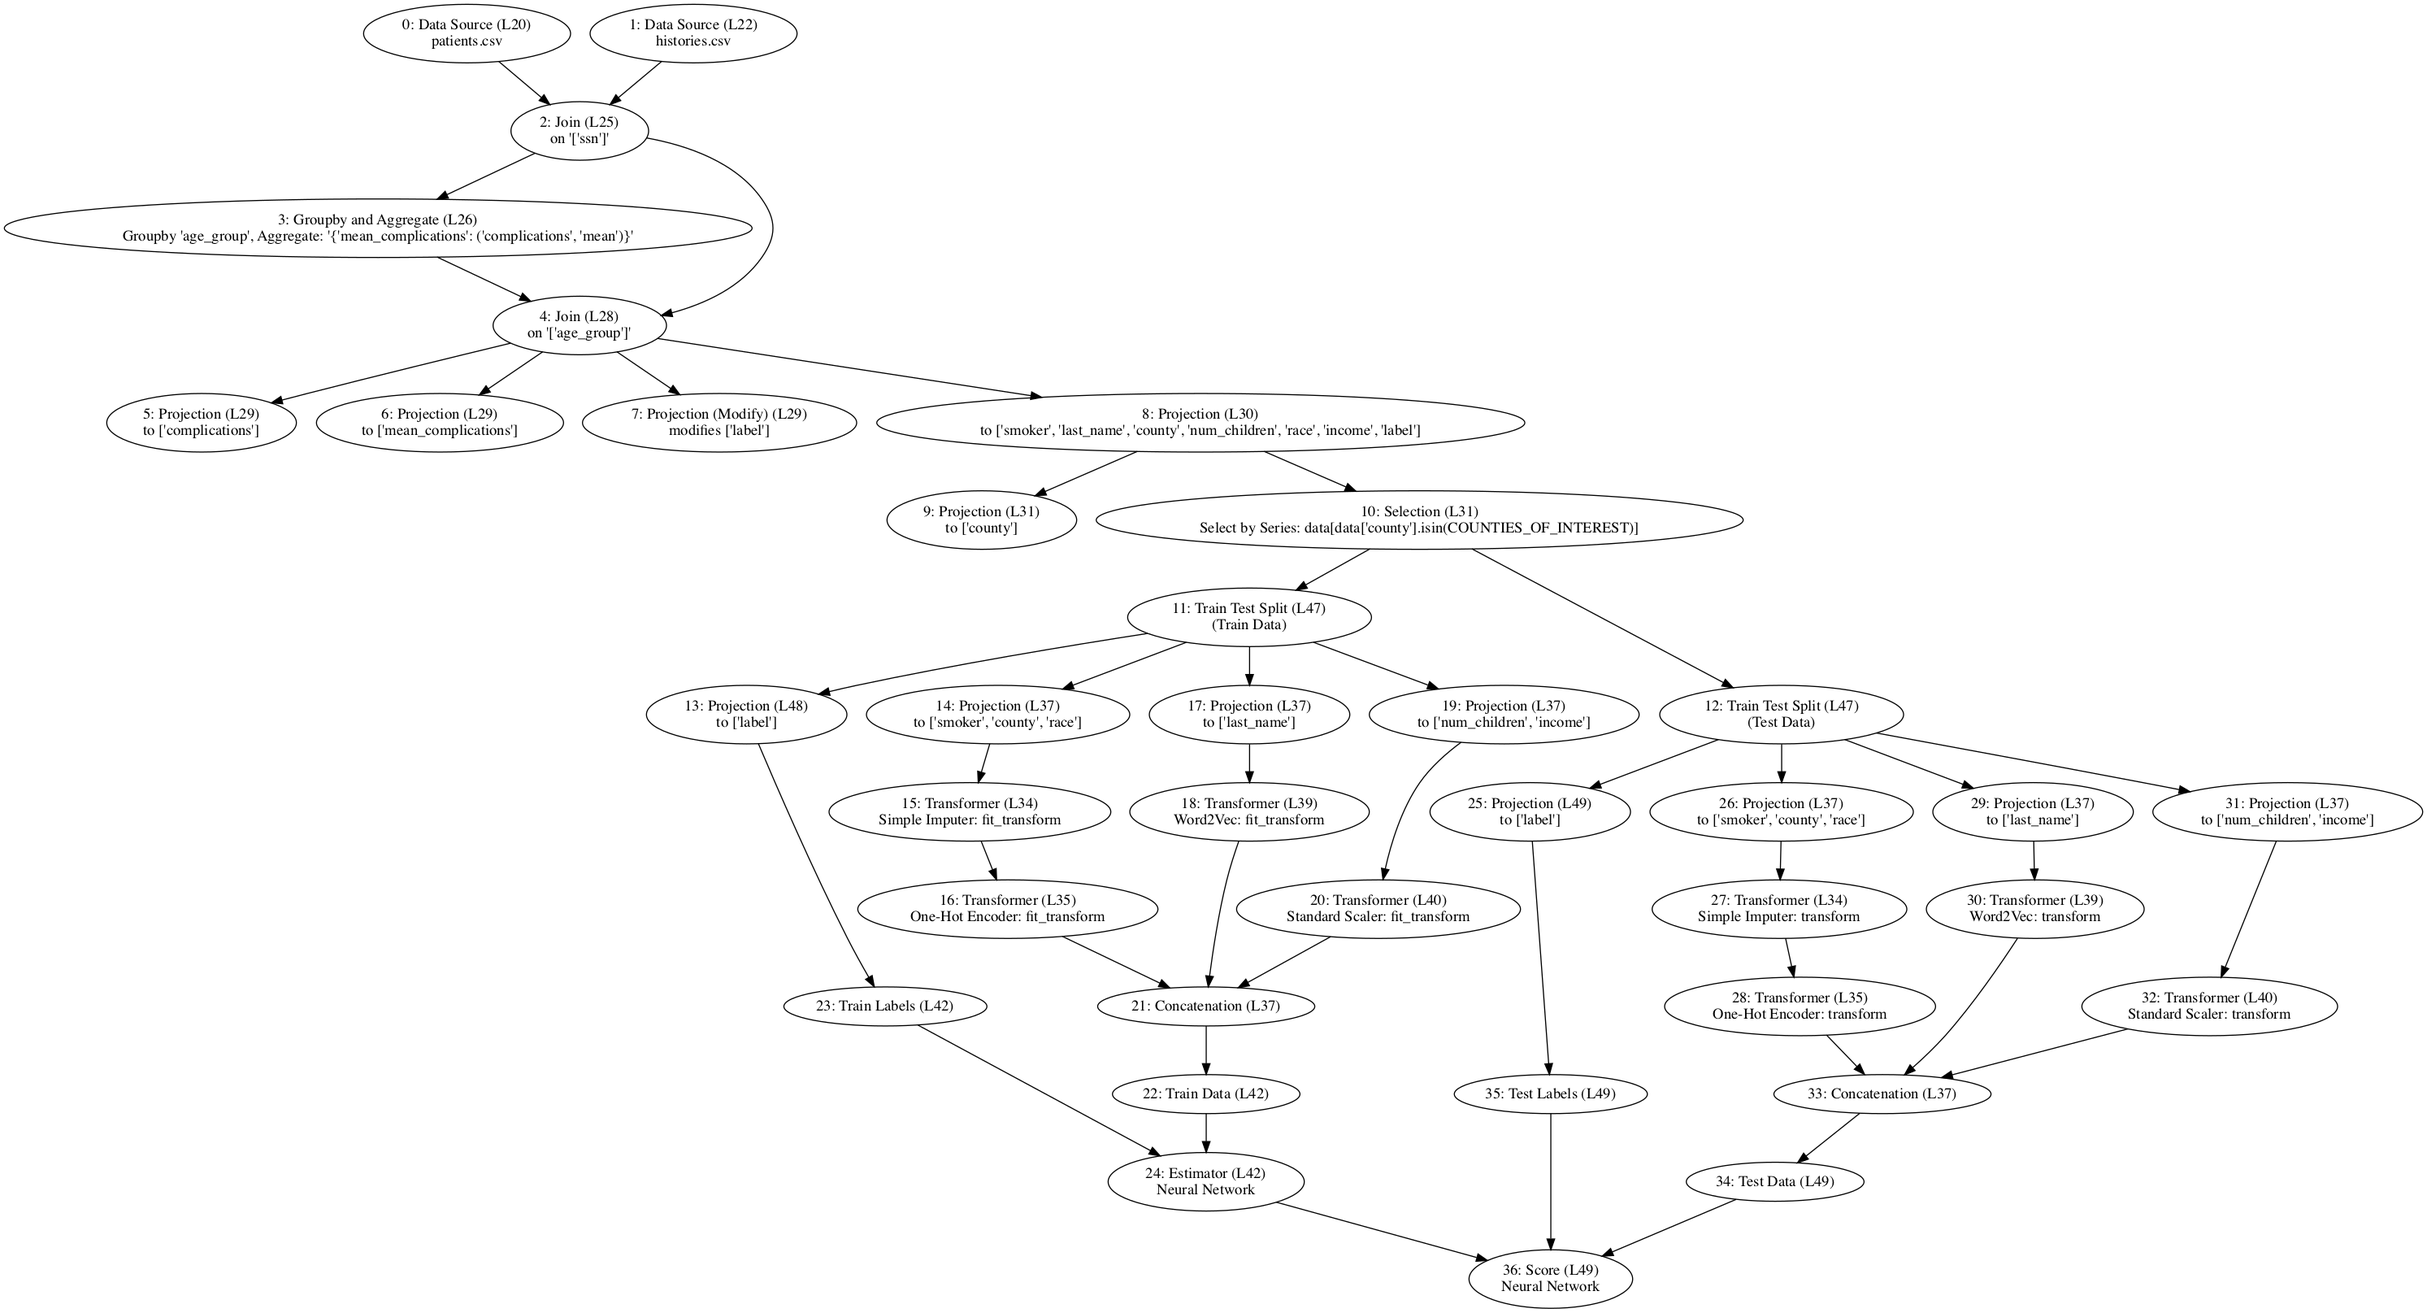
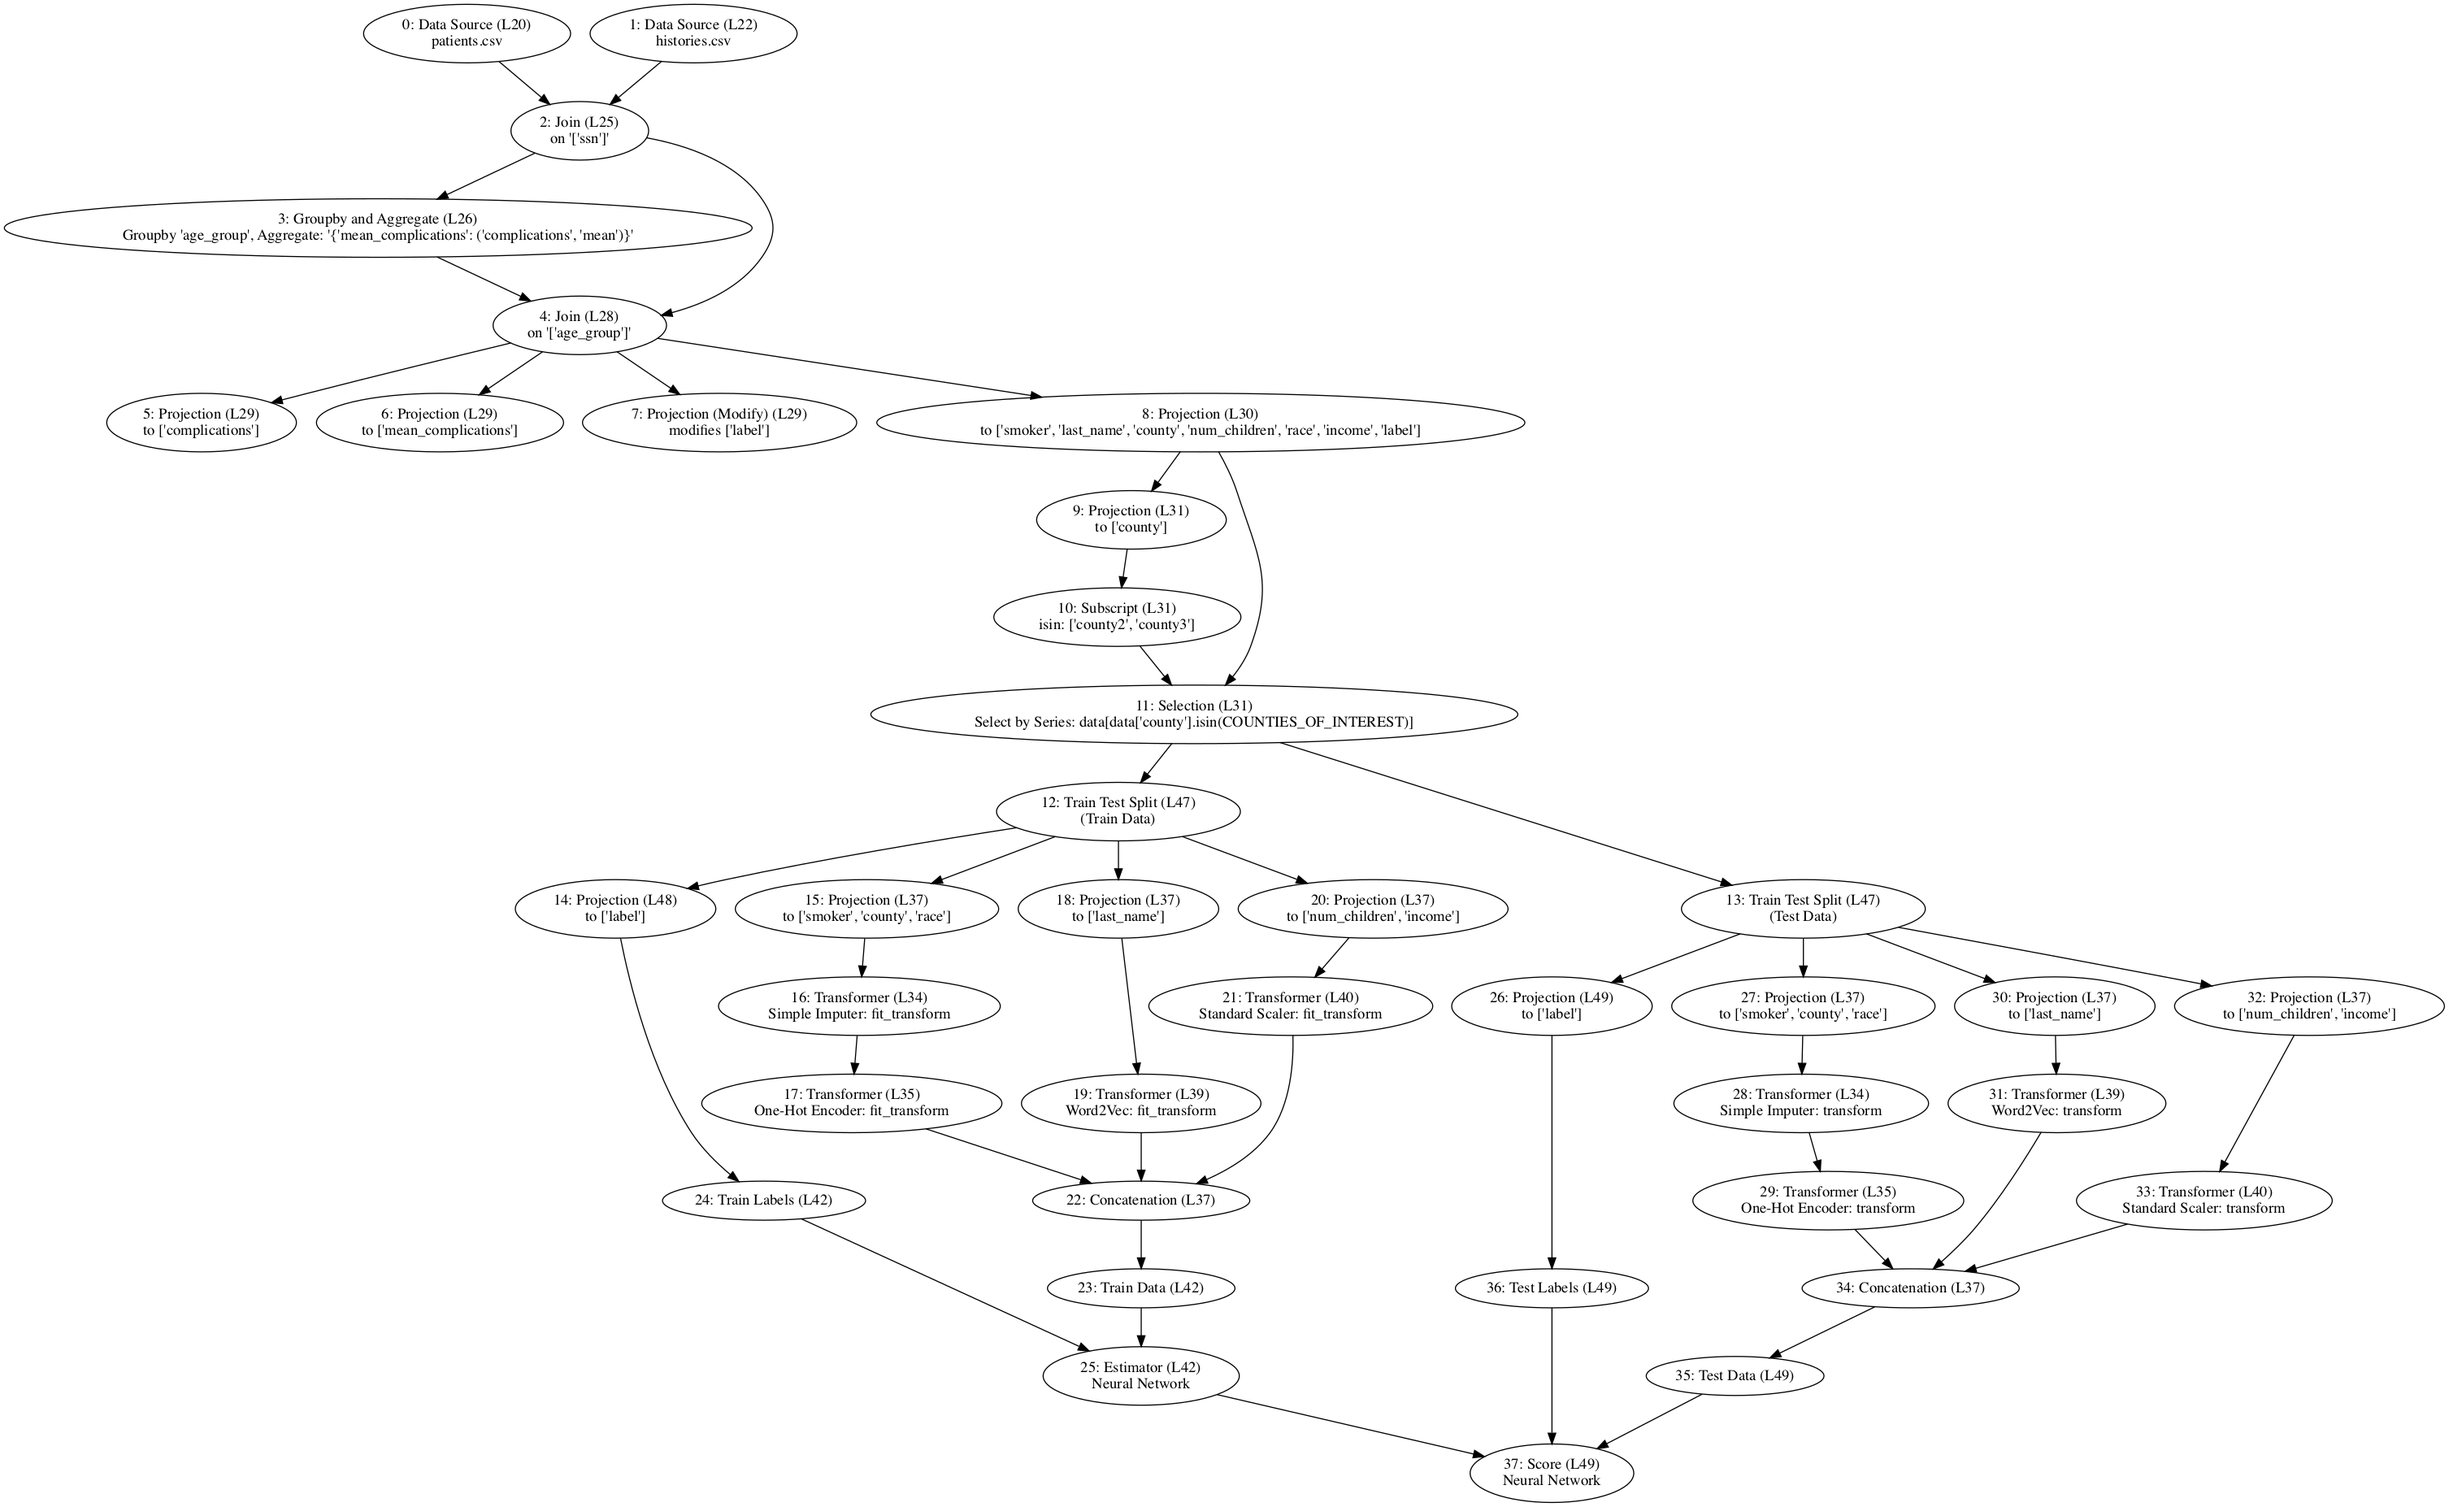
Included first subscript in DAG

diff --git a/mlwhatif/monkeypatching/_patch_pandas.py b/mlwhatif/monkeypatching/_patch_pandas.py
@@ -117,6 +117,7 @@ class DataFramePatching:
             function_info = FunctionInfo('pandas.core.frame', '__getitem__')
             input_info = get_input_info(self, caller_filename, lineno, function_info, optional_code_reference,
                                         optional_source_code)
+            dag_parents = [input_info.dag_node]
             if isinstance(args[0], str):  # Projection to Series
                 columns = [args[0]]
                 operator_context = OperatorContext(OperatorType.PROJECTION, function_info)
@@ -136,6 +137,9 @@ class DataFramePatching:
             elif isinstance(args[0], pandas.Series):  # Selection
                 operator_context = OperatorContext(OperatorType.SELECTION, function_info)
                 columns = list(self.columns)  # pylint: disable=no-member
+                selection_series_input_info = get_input_info(args[0], caller_filename, lineno, function_info,
+                                                             optional_code_reference, optional_source_code)
+                dag_parents.append(selection_series_input_info.dag_node)
                 if optional_source_code:
                     description = "Select by Series: {}".format(optional_source_code)
                 else:
@@ -149,7 +153,7 @@ class DataFramePatching:
                 raise NotImplementedError()
             result = original(input_info.annotated_dfobject.result_data, *args, **kwargs)
             function_call_result = FunctionCallResult(result)
-            add_dag_node(dag_node, [input_info.dag_node], function_call_result)
+            add_dag_node(dag_node, dag_parents, function_call_result)
             new_result = function_call_result.function_result
 
             return new_result
@@ -435,3 +439,33 @@ class SeriesPatching:
             add_dag_node(dag_node, [], function_call_result)
 
         execute_patched_func(original, execute_inspections, self, *args, **kwargs)
+
+    @gorilla.name('isin')
+    @gorilla.settings(allow_hit=True)
+    def patched_isin(self, *args, **kwargs):
+        """ Patch for ('pandas.core.series', 'isin') """
+        original = gorilla.get_original_attribute(pandas.Series, 'isin')
+
+        def execute_inspections(op_id, caller_filename, lineno, optional_code_reference, optional_source_code):
+            """ Execute inspections, add DAG node """
+            function_info = FunctionInfo('pandas.core.series', 'isin')
+            input_info = get_input_info(self, caller_filename, lineno, function_info, optional_code_reference,
+                                        optional_source_code)
+            operator_context = OperatorContext(OperatorType.SUBSCRIPT, function_info)
+            description = "isin: {}".format(args[0])
+            columns = [self.name]
+            dag_node = DagNode(op_id,
+                               BasicCodeLocation(caller_filename, lineno),
+                               operator_context,
+                               DagNodeDetails(description, columns),
+                               get_optional_code_info_or_none(optional_code_reference, optional_source_code))
+
+            result = original(input_info.annotated_dfobject.result_data, *args, **kwargs)
+            function_call_result = FunctionCallResult(result)
+            add_dag_node(dag_node, [input_info.dag_node], function_call_result)
+            new_result = function_call_result.function_result
+
+            return new_result
+
+        return execute_patched_func(original, execute_inspections, self, *args, **kwargs)
+

diff --git a/test/monkeypatching/test_patch_pandas.py b/test/monkeypatching/test_patch_pandas.py
@@ -506,3 +506,38 @@ def test_series__init__():
                             DagNodeDetails(None, ['A']),
                             OptionalCodeInfo(CodeReference(3, 12, 3, 48), "pd.Series([0, 2, 4, None], name='A')"))
     compare(extracted_node, expected_node)
+
+
+def test_series_isin():
+    """
+    Tests whether the monkey patching of ('pandas.core.series', 'isin') works
+    """
+    test_code = cleandoc("""
+        import pandas as pd
+
+        pd_series = pd.Series([0, 2, 4, None], name='A')
+        filtered = pd_series.isin([2, 4])
+        assert len(pd_series) == 4
+        """)
+    inspector_result = _pipeline_executor.singleton.run(python_code=test_code, track_code_references=True)
+
+    extracted_dag = inspector_result.dag
+
+    expected_dag = networkx.DiGraph()
+    expected_data_source = DagNode(0,
+                                   BasicCodeLocation("<string-source>", 3),
+                                   OperatorContext(OperatorType.DATA_SOURCE,
+                                                   FunctionInfo('pandas.core.series', 'Series')),
+                                   DagNodeDetails(None, ['A']),
+                                   OptionalCodeInfo(CodeReference(3, 12, 3, 48),
+                                                    "pd.Series([0, 2, 4, None], name='A')"))
+    expected_isin = DagNode(1,
+                            BasicCodeLocation("<string-source>", 4),
+                            OperatorContext(OperatorType.SUBSCRIPT,
+                                            FunctionInfo('pandas.core.series', 'isin')),
+                            DagNodeDetails('isin: [2, 4]', ['A']),
+                            OptionalCodeInfo(CodeReference(4, 11, 4, 33),
+                                             'pd_series.isin([2, 4])'))
+    expected_dag.add_edge(expected_data_source, expected_isin)
+
+    compare(extracted_dag, expected_dag)

diff --git a/test/test_pipeline_inspector.py b/test/test_pipeline_inspector.py
@@ -90,4 +90,4 @@ def assert_healthcare_pipeline_output_complete(inspector_result):
     """ Assert that the healthcare DAG was extracted completely """
     for dag_node, _ in inspector_result.dag_node_to_inspection_results.items():
         assert dag_node.operator_info.operator != OperatorType.MISSING_OP
-    assert len(inspector_result.dag) == 37
+    assert len(inspector_result.dag) == 38

diff --git a/test/example_pipelines/test_healthcare.py b/test/example_pipelines/test_healthcare.py
@@ -53,4 +53,4 @@ def test_instrumented_py_pipeline_runs():
     """
     dag = run_and_assert_all_op_outputs_inspected(HEALTHCARE_PY, ["age_group", "race"], HEALTHCARE_PNG,
                                                   [custom_monkeypatching])
-    assert len(dag) == 37
+    assert len(dag) == 38

diff --git a/mlwhatif/instrumentation/_operator_types.py b/mlwhatif/instrumentation/_operator_types.py
@@ -55,6 +55,7 @@ class OperatorType(Enum):
     JOIN = "Join"
     GROUP_BY_AGG = "Groupby and Aggregate"
     TRAIN_TEST_SPLIT = "Train Test Split"
+    SUBSCRIPT = "Subscript"
 
 
 @dataclasses.dataclass(frozen=True)
